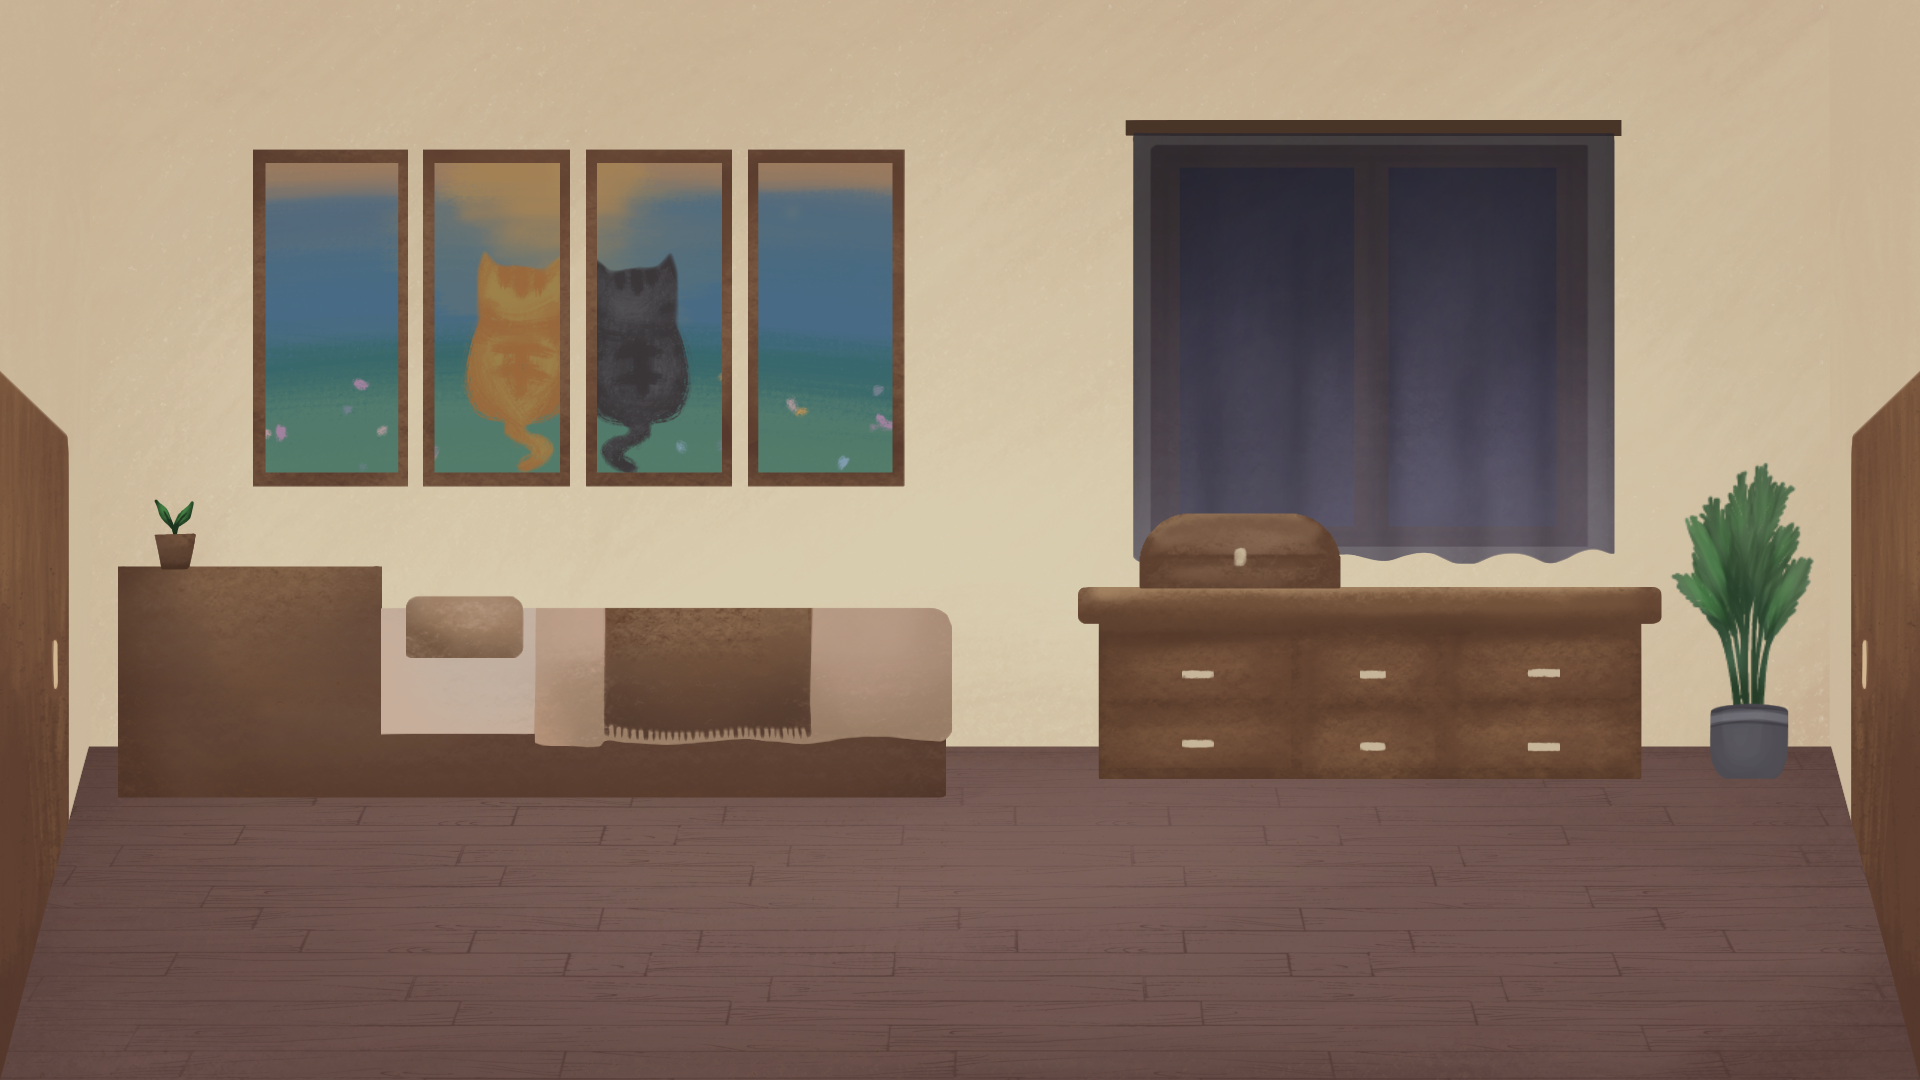
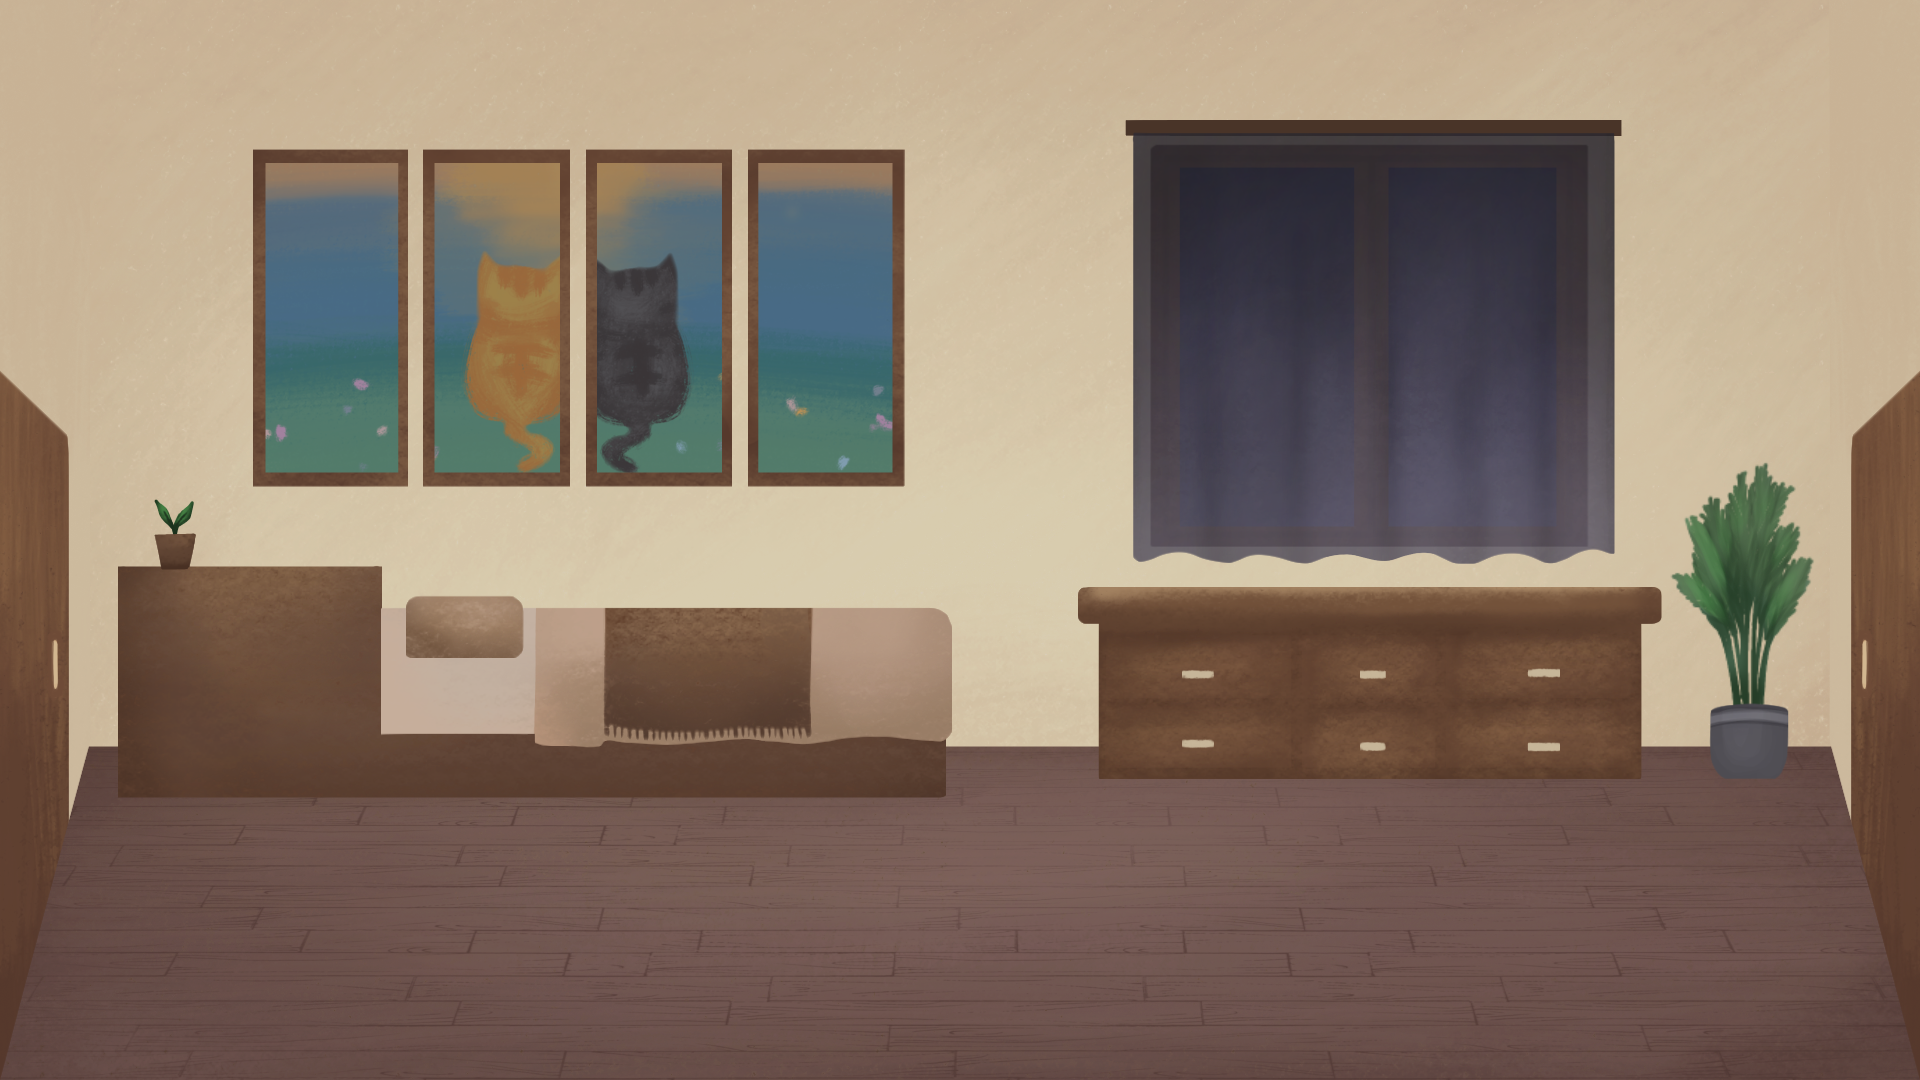
Add minigame

Changed region(s): [[0.5938, 0.4583, 0.7188, 0.55]]

diff --git a/src/Minigame/JigsawPackage/JigsawFrame.java b/src/Minigame/JigsawPackage/JigsawFrame.java
@@ -1,5 +1,7 @@
 package Minigame.JigsawPackage;
 
+import ui.MainGameFrame;
+
 import java.awt.*;
 import java.awt.image.BufferedImage;
 import java.io.IOException;
@@ -11,7 +13,13 @@ public class JigsawFrame extends JPanel {
     private JigsawParts jigsawPart[];
     private JButton exitButton;
     private BufferedImage background, exit;
-    public JigsawFrame(){
+    private MainGameFrame mainGameFrame;
+    private Runnable onWinCallback;
+
+    public JigsawFrame(MainGameFrame mainGameFrame, Runnable onWinCallback){
+        this.mainGameFrame = mainGameFrame;
+        this.onWinCallback = onWinCallback;
+
         try{
             background = ImageIO.read(getClass().getResource("Image/BG pic.png"));
             exit = ImageIO.read(getClass().getResource("Image/Exit_minigame_btn.png"));
@@ -31,22 +39,40 @@ public class JigsawFrame extends JPanel {
         exitButton.setContentAreaFilled(false);
         exitButton.setFocusPainted(false);
         exitButton.setCursor(new Cursor(Cursor.HAND_CURSOR));
+        exitButton.addActionListener(e -> {
+            mainGameFrame.closeMinigame();
+        });
 
         sup.setSize(background.getWidth(), background.getHeight());
         this.setLayout(null);
         this.setBackground(new Color(26,26,26,177));
 
         //JigsawPart create
-        jigsawPart = new JigsawParts[]{new JigsawParts("Image/jigsaw1.png", 670, 500, 86,70),
-                new JigsawParts("Image/jigsaw2.png", 670, 500, 115,70),
-                new JigsawParts("Image/jigsaw3.png", 670, 500, 442,70),
-                new JigsawParts("Image/jigsaw4.png", 670, 500, 86,541),
-                new JigsawParts("Image/jigsaw5.png", 670, 500, 171,456),
-                new JigsawParts("Image/jigsaw6.png", 670, 500, 312,476),
-                new JigsawParts("Image/jigsaw7.png", 670, 500, 86,727),
-                new JigsawParts("Image/jigsaw8.png", 670, 500, 299,659),
-                new JigsawParts("Image/jigsaw9.png", 670, 500, 363,872),
-                new JigsawParts("Image/jigsaw10.png", 670, 500, 616,569)
+        jigsawPart = new JigsawParts[]{
+//                new JigsawParts("Image/jigsaw1.png", this,670, 500, 86,70),
+//                new JigsawParts("Image/jigsaw2.png", this,550, 550, 115,70),
+//                new JigsawParts("Image/jigsaw3.png",this,690, 600, 442,70),
+//                new JigsawParts("Image/jigsaw4.png", this,600, 500, 86,541),
+//                new JigsawParts("Image/jigsaw5.png", this,500, 700, 171,456),
+//                new JigsawParts("Image/jigsaw6.png", this, 690, 660, 312,476),
+//                new JigsawParts("Image/jigsaw7.png", this, 570, 520, 86,727),
+//                new JigsawParts("Image/jigsaw8.png", this, 670, 590, 299,659),
+//                new JigsawParts("Image/jigsaw9.png", this, 490, 510, 363,872),
+//                new JigsawParts("Image/jigsaw10.png", this, 500, 600, 616,569)
+                new JigsawParts("Image/jigsaw1.png", this, 800, 450, 86, 70),
+                new JigsawParts("Image/jigsaw2.png", this, 750, 180, 115, 70),
+                new JigsawParts("Image/jigsaw3.png", this, 800, 130, 442, 70),
+
+                // กลุ่มตรงกลาง (ซ้อนกันนิดๆ ให้ดูเป็นธรรมชาติ)
+                new JigsawParts("Image/jigsaw4.png", this, 750, 40, 86, 541),
+                new JigsawParts("Image/jigsaw5.png", this, 1150, 700, 171, 456),
+                new JigsawParts("Image/jigsaw6.png", this, 1000, 30, 312, 476),
+
+                // กลุ่มด้านล่าง
+                new JigsawParts("Image/jigsaw7.png", this, 1080, 480, 86, 727),
+                new JigsawParts("Image/jigsaw8.png", this, 1250, 520, 299, 659),
+                new JigsawParts("Image/jigsaw9.png", this, 950,  600, 363, 872),
+                new JigsawParts("Image/jigsaw10.png", this, 900, 650, 616, 569)
         };
 
         sup.setLayout(null);
@@ -57,12 +83,46 @@ public class JigsawFrame extends JPanel {
 
         this.add(sup);
         this.add(exitButton);
+
         this.addComponentListener(new java.awt.event.ComponentAdapter() {
+
             @Override
             public void componentResized(java.awt.event.ComponentEvent e) {
-                sup.setLocation(getWidth() / 2 - (sup.getWidth() / 2), getHeight() / 2 - (sup.getHeight() / 2));
-                exitButton.setLocation((int) (0.05 * getWidth()), (int) (0.05 * getHeight()));
+                if (getWidth() > 0 && getHeight() > 0) {
+                    sup.setLocation(getWidth() / 2 - (sup.getWidth() / 2), getHeight() / 2 - (sup.getHeight() / 2));
+                    exitButton.setLocation((int) (0.05 * getWidth()), (int) (0.05 * getHeight()));
+                }
             }
         });
+    }
+
+    @Override
+    public void doLayout() {
+        super.doLayout();
+        if (sup != null) {
+            sup.setLocation(getWidth() / 2 - sup.getWidth() / 2, getHeight() / 2 - sup.getHeight() / 2);
+        }
+        if (exitButton != null) {
+            exitButton.setLocation((int) (0.05 * getWidth()), (int) (0.05 * getHeight()));
+        }
+    }
+
+    public void checkWinCondition() {
+        boolean allFinished = true;
+        for (JigsawParts jp : jigsawPart) {
+            if (!jp.isReachTarget()) {
+                allFinished = false;
+                break;
+            }
+        }
+
+        if (allFinished) {
+            Timer winTimer = new Timer(1000, evt -> {
+               if (onWinCallback != null) onWinCallback.run();
+               mainGameFrame.closeMinigame();
+            });
+            winTimer.setRepeats(false);
+            winTimer.start();
+        }
     }
 }

diff --git a/src/Minigame/JigsawPackage/JigsawPartHandler.java b/src/Minigame/JigsawPackage/JigsawPartHandler.java
@@ -10,35 +10,52 @@ public class JigsawPartHandler extends MouseAdapter {
     private Point offset;
     @Override
     public void mouseDragged(MouseEvent e) {
-        JPanel panel = (JPanel) e.getSource();
-        BufferedImage img = ((JigsawParts) panel).getImg();
-        int dX = Math.abs(panel.getX() - ((JigsawParts) panel).getTargetX());
-        int dY = Math.abs(panel.getY() - ((JigsawParts) panel).getTargetY());
-        int distance = (int) Math.sqrt(dX * dX + dY * dY);
-        if ( distance > 10){
-            int pixel = img.getRGB(offset.x, offset.y);
-            int alpha = (pixel >> 24) & 0xff;
-            if (alpha > 0){
-                int newX = panel.getX() + e.getX() - offset.x;
-                int newY = panel.getY() + e.getY() - offset.y;
-                Container parent = panel.getParent();
-                if (parent != null) {
-                    int maxX = parent.getWidth() - panel.getWidth();
-                    int maxY = parent.getHeight() - panel.getHeight();
-                    newX = Math.max(0, Math.min(newX, maxX));
-                    newY = Math.max(0, Math.min(newY, maxY));
-                }
-                panel.setLocation(newX, newY );
-                panel.repaint();
-                ((JigsawParts) panel).setReachTartget(true);
-            }
-        } else {
-            panel.setLocation(((JigsawParts) panel).getTargetX(), ((JigsawParts) panel).getTargetY());
-            panel.repaint();
-            System.out.println("this part is already on the right location");
-        }
+        JigsawParts panel = (JigsawParts) e.getSource();
+        if (panel.isReachTarget()) return;
 
+        BufferedImage img = panel.getImg();
+        if (img == null) return;
+
+        int pixel = img.getRGB(offset.x, offset.y);
+        int alpha = (pixel >> 24) & 0xff;
+//        int dX = Math.abs(panel.getX() - ((JigsawParts) panel).getTargetX());
+//        int dY = Math.abs(panel.getY() - ((JigsawParts) panel).getTargetY());
+//        int distance = (int) Math.sqrt(dX * dX + dY * dY);
+        if (alpha > 10) {
+            int newX = panel.getX() + e.getX() - offset.x;
+            int newY = panel.getY() + e.getY() - offset.y;
+
+            Container parent = panel.getParent();
+            if (parent != null) {
+                int maxX = parent.getWidth() - panel.getWidth();
+                int maxY = parent.getHeight() - panel.getHeight();
+                newX = Math.max(0, Math.min(newX, maxX));
+                newY = Math.max(0, Math.min(newY, maxY));
+            }
+            panel.setLocation(newX, newY);
+            panel.repaint();
+
+            //คำนวณระยะห่างรอบเดียวตอนที่ลาก (ไม่ต้องประกาศ int ซ้ำ)
+            int dX = Math.abs(panel.getX() - panel.getTargetX());
+            int dY = Math.abs(panel.getY() - panel.getTargetY());
+            int distance = (int) Math.sqrt(dX * dX + dY * dY);
+
+            // ถ้าระยะห่างน้อยกว่า 15 Pixel ให้ "ดูด" เข้าที่
+            if (distance < 15) {
+                panel.setLocation(panel.getTargetX(), panel.getTargetY());
+                panel.repaint();
+
+                //เรียกคำสั่งได้ตรงๆ เลย เพราะ panel เป็น JigsawParts แล้ว
+                panel.setReachTartget(true);
+            }
+        }
     }
+//        } else {
+////            panel.setLocation(((JigsawParts) panel).getTargetX(), ((JigsawParts) panel).getTargetY());
+////            panel.repaint();
+////            System.out.println("this part is already on the right location");
+//        }
+//    }
     @Override
     public void mousePressed(MouseEvent e) {
         offset = e.getPoint();

diff --git a/src/scenes/SceneManager.java b/src/scenes/SceneManager.java
@@ -1,5 +1,6 @@
 package scenes;
 
+import Minigame.JigsawPackage.JigsawFrame;
 import Minigame.KonKlongPackage.KonKlong;
 import Minigame.RotateNarigaPackage.RotateNariga;
 import Minigame.RotateYanPackage.RotateYan;
@@ -477,6 +478,27 @@ public class SceneManager {
         };
 
         //scene_8
+        Item EmptyPicture = new Item("minigameJigsaw", 1418, 508, 67, 85, "กรอบรูป", "กรอบรูป", "EmptyPicture.png", "EmptyPicture.png") {
+
+            private boolean isSolved = false;
+
+            @Override
+            public void onInteract(Player p) {
+                if (!isSolved) {
+                    ui.MainGameFrame mainFrame = (ui.MainGameFrame) SwingUtilities.getWindowAncestor(SceneManager.this.getGamePanel());
+                    JigsawFrame minigame = new JigsawFrame(mainFrame, () -> {
+                        isSolved = true;
+                        DialogueLine[] EmptyPictureScript = {
+                                new DialogueLine("พระเอก", "รูปนี้มัน... ครอบครัวของเรานี่นา", null, mainTalk),
+                        };
+                        overlay.setCharacterTransform(50, 0, 706, 941, 1200, 0, 706, 941);
+                        overlay.startDialogue(EmptyPictureScript, () -> {});
+                    });
+                    mainFrame.openMinigame(minigame);
+                }
+            }
+        };
+
         Item Knife2 = createPickUpItem("knife", 400, 530, 70, 70, "มีดอาคม", "มีดอวยคม", "knife.png", "knife.png");
         Knife2.setVisible(false);
 
@@ -664,6 +686,8 @@ public class SceneManager {
         Scene scene_18 = scenes.get("scene_18");
 
         if (scene_1 != null) {
+            scene_1.addGameObject(EmptyPicture);
+
             scene_1.addGameObject(Daddy_Pic);
             scene_1.addGameObject(npcGirl);
             scene_1.addGameObject(evil);
@@ -698,6 +722,7 @@ public class SceneManager {
         if (scene_8 != null) {
             scene_8.addGameObject(miniGameClock);
             scene_8.addGameObject(Knife2);
+            scene_8.addGameObject(EmptyPicture);
         }
         if (scene_15 != null) {
             scene_15.addGameObject(Door);

diff --git a/src/Minigame/JigsawPackage/JigsawParts.java b/src/Minigame/JigsawPackage/JigsawParts.java
@@ -12,12 +12,15 @@ public class JigsawParts extends JPanel{
     private BufferedImage img;
     private Dimension size;
     private Boolean reachTartget = false;
+    private JigsawFrame jigsawFrame;
 
-    public JigsawParts(String path){
-        this(path, 0, 0, 0, 0);
-    }
+//    public JigsawParts(String path){
+//        this(path, 0, 0, 0, 0);
+//    }
 
-    public JigsawParts(String path, int x, int y, int targetX, int targetY){
+    public JigsawParts(String path, JigsawFrame jigsawFrame, int x, int y, int targetX, int targetY){
+        this.jigsawFrame = jigsawFrame;
+
         JigsawPartHandler jsHandler = new JigsawPartHandler();
         try {
             img = ImageIO.read(getClass().getResource(path));
@@ -36,8 +39,12 @@ public class JigsawParts extends JPanel{
     public BufferedImage getImg(){
         return  img;
     }
+    public boolean isReachTarget() {return reachTartget;}
     public void setReachTartget(Boolean b){
         reachTartget = b;
+        if (b && jigsawFrame != null) {
+            jigsawFrame.checkWinCondition();
+        }
     }
     public int getTargetX(){
         return targetX;

diff --git a/src/scenes/TestScene.java b/src/scenes/TestScene.java
@@ -47,7 +47,7 @@ public class TestScene {
         if (gamePanel.sceneManager != null) {
 
             // สั่งโหลดฉาก 15 ทันที
-            gamePanel.sceneManager.loadScene("scene_6");
+            gamePanel.sceneManager.loadScene("scene_8");
 
             // 💡 (แถม) ถ้าอยากให้พระเอกไปยืนตรงจุดใดจุดหนึ่งของจอเพื่อเทสต์ไอเทมใกล้ๆ
             // เอาคอมเมนต์ออกแล้วแก้เลขพิกัดได้เลยครับ

diff --git a/src/Minigame/RotateYanPackage/RotateYan.java b/src/Minigame/RotateYanPackage/RotateYan.java
@@ -43,6 +43,9 @@ public class RotateYan extends JPanel{
         exitButton.setContentAreaFilled(false);
         exitButton.setFocusPainted(false);
         exitButton.setCursor(new Cursor(Cursor.HAND_CURSOR));
+        exitButton.addActionListener(e -> {
+            mainGameFrame.closeMinigame();
+        });
 
         yanArray = new YanJPanel[]{
                 new YanJPanel("Image/yan1.png", this),
